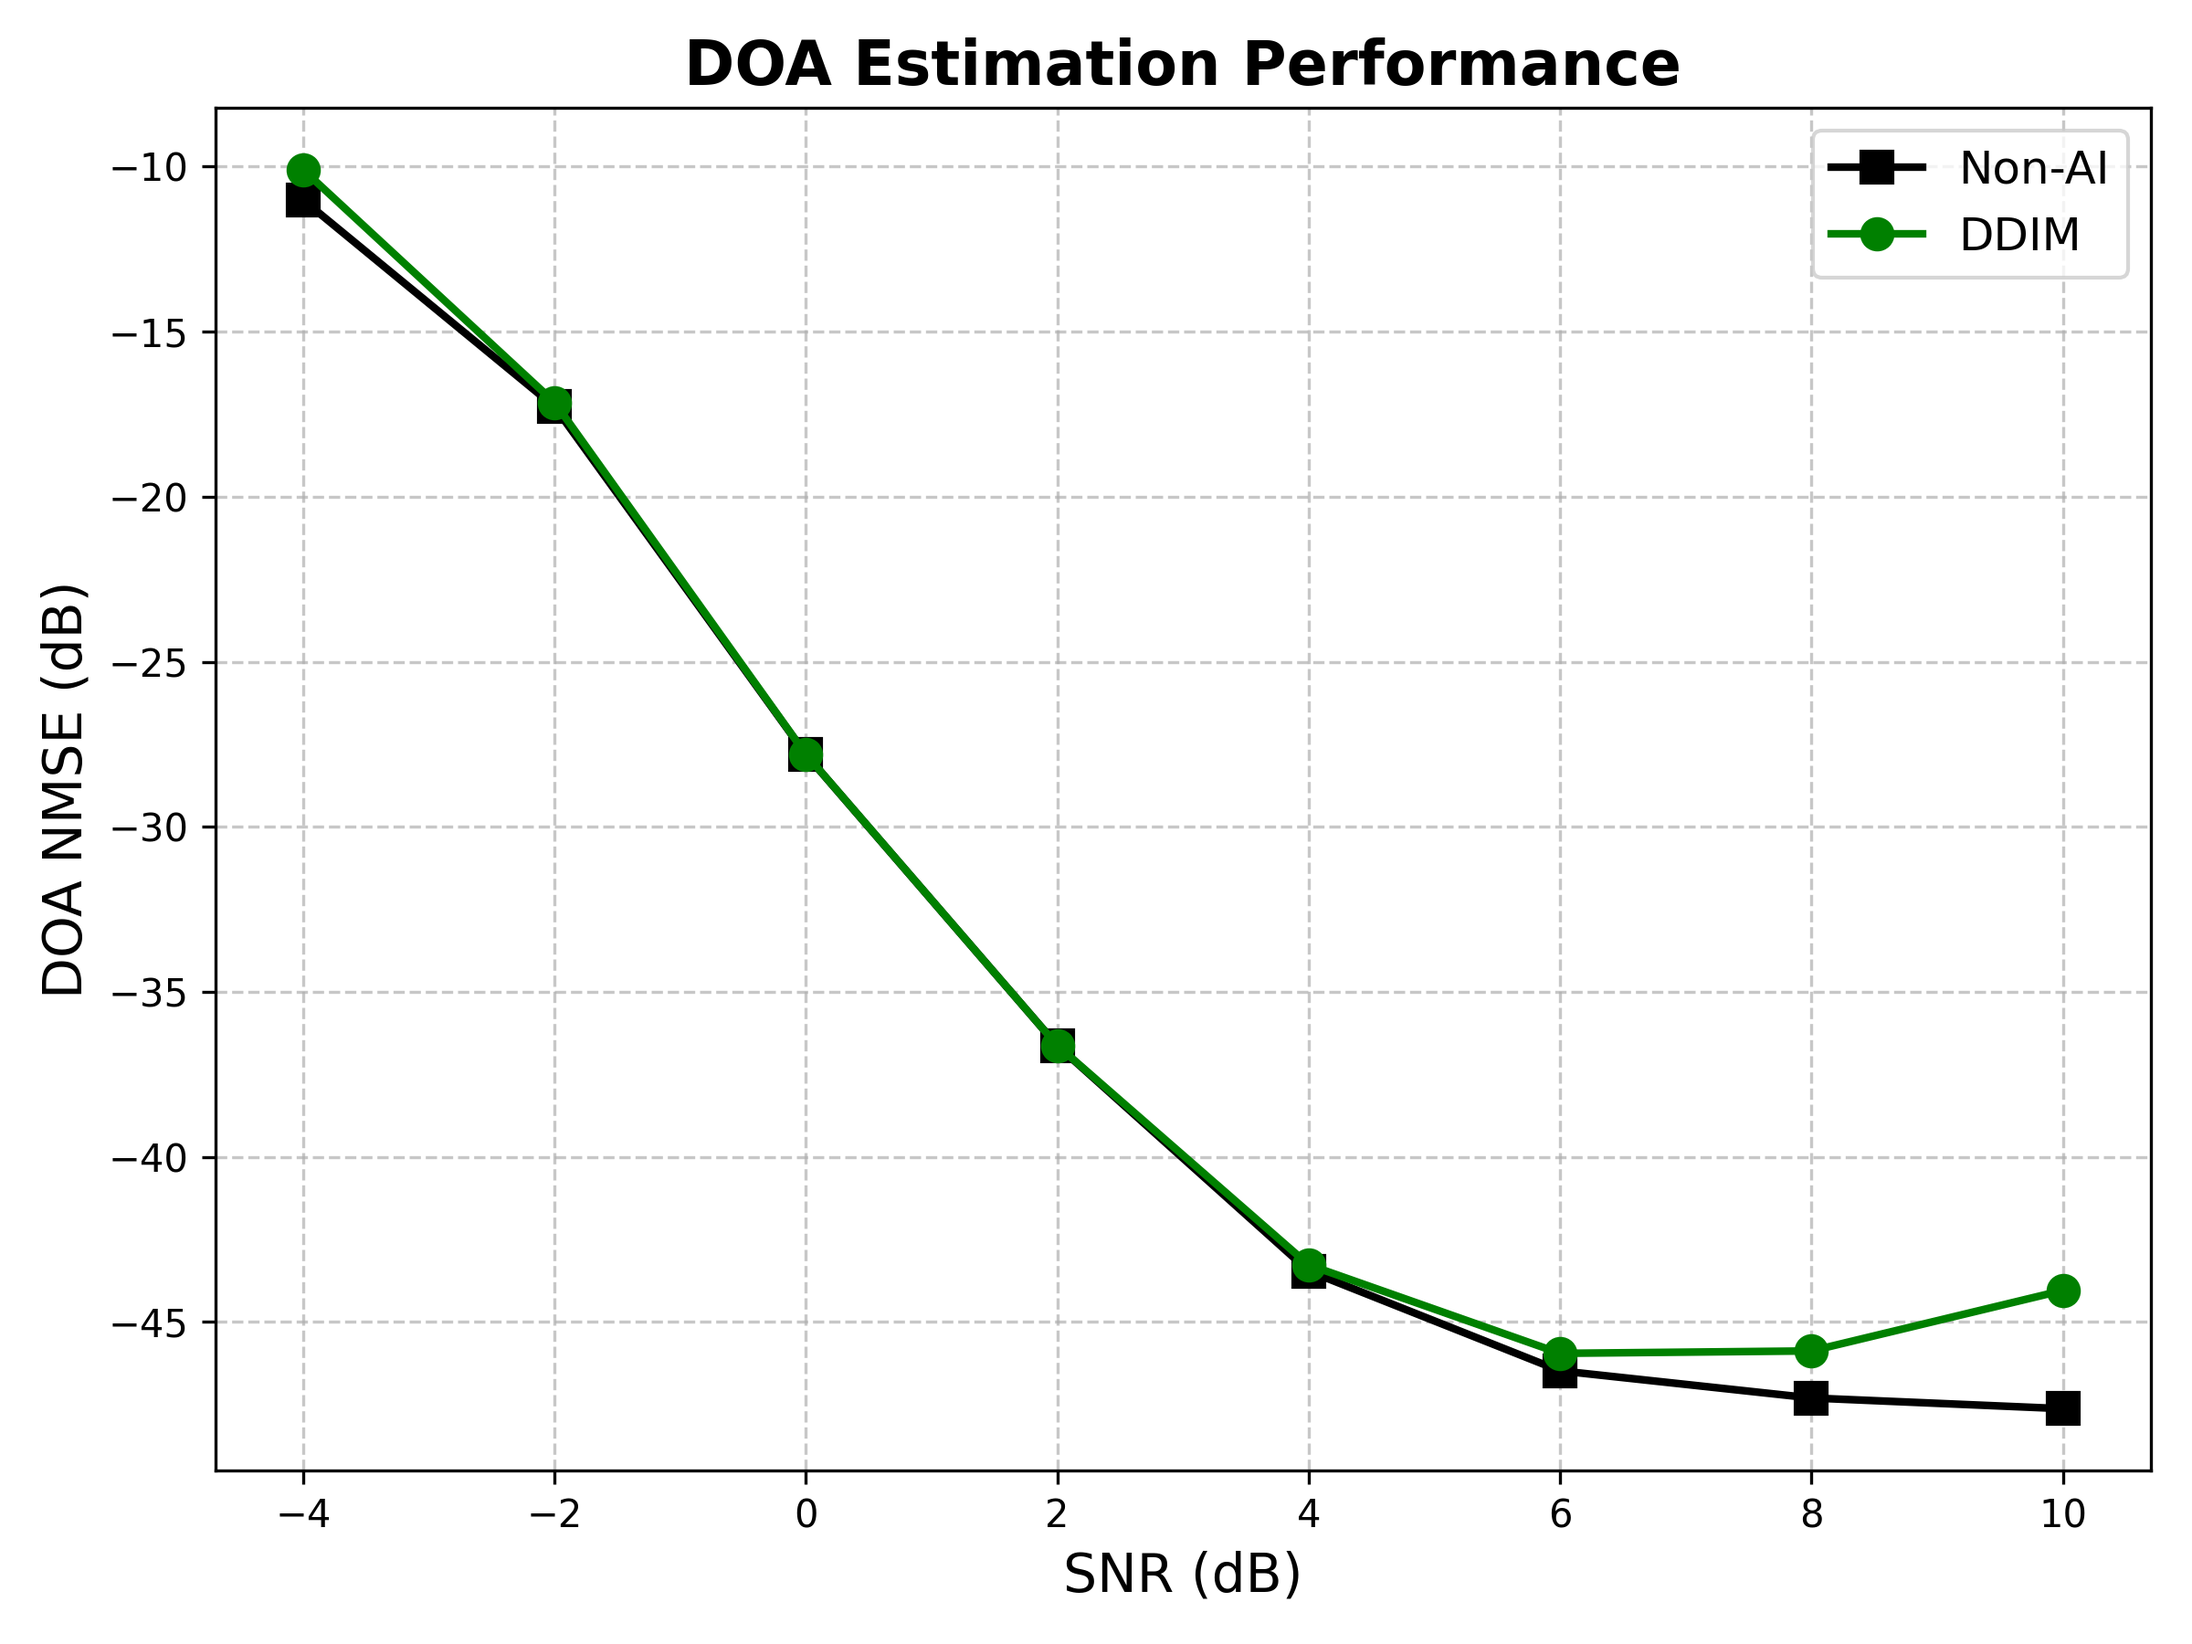
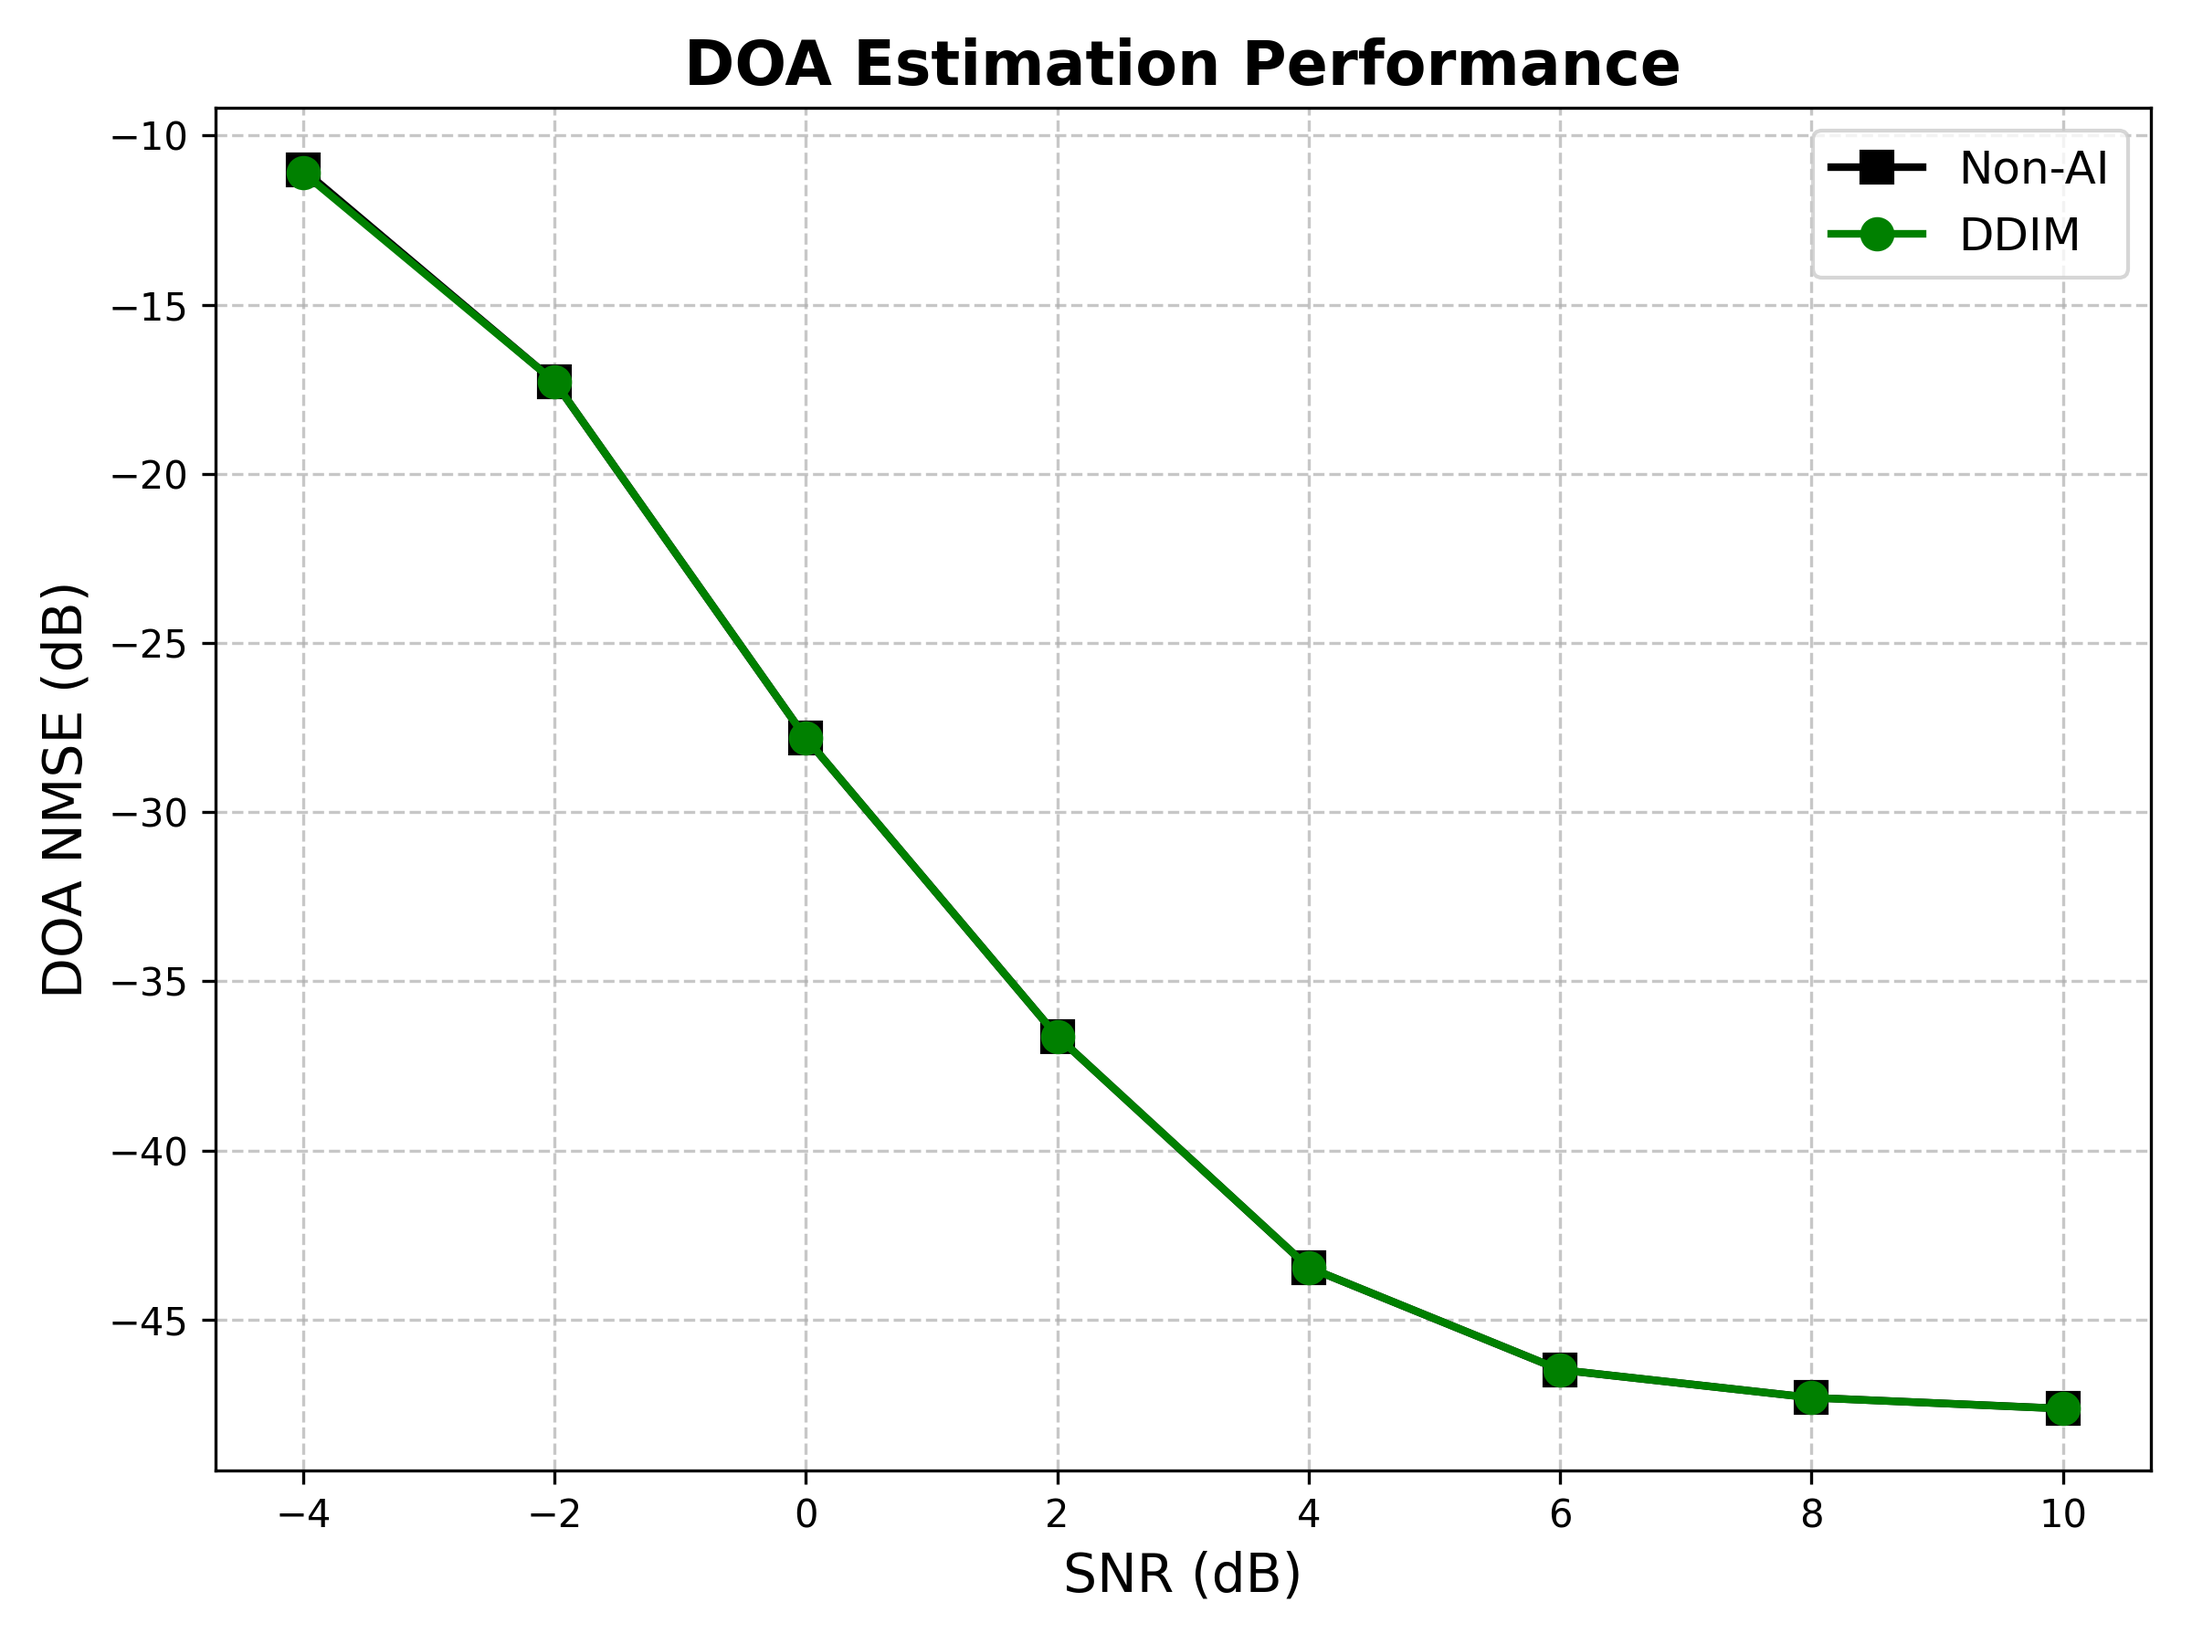
test(compat): benchmark old models and normalize filenames
- Benchmarked old sim/-trained models: performance is weak in high SNR regions.
- Verified that normalizing 't' in MLP (with max(sigma, 1)) matches non-AI results.
- Refactored file naming: removed "_data" suffix from NMSE .mat files for consistency.

diff --git a/sim2/DDIM/test_results/NMSE_plot.py b/sim2/DDIM/test_results/NMSE_plot.py
@@ -122,9 +122,9 @@ def plot_and_save_metric(metric_type, title, ylabel, save_name_base, script_dir)
     print(f"[Success] Saved plot image to: test_results/{save_name_base}.png")
 
     # save .mat data
-    mat_path = os.path.join(script_dir, f"{save_name_base}_data.mat")
+    mat_path = os.path.join(script_dir, f"{save_name_base}.mat")
     sio.savemat(mat_path, plot_data_export)
-    print(f"[Success] Saved plot data to : test_results/{save_name_base}_data.mat")
+    print(f"[Success] Saved plot data to : test_results/{save_name_base}.mat")
     plt.close()
 
 # =============================

diff --git a/sim2/DDIM/diffusion/ddim_sampler_parallel.py b/sim2/DDIM/diffusion/ddim_sampler_parallel.py
@@ -38,7 +38,7 @@ def ddim_epsnet_guided_sampler_batch(y_obs_complex, eps_net, snr,
             x0_hat = (x_t - sqrt_1m_a_cur * eps_pred) / (sqrt_a_cur + 1e-12)
 
             # guidance in x0 domain using observed y
-            grad_x0 = (y_real - x0_hat) / max(sigma_y2 + 1e-8, 0.1)
+            grad_x0 = (y_real - x0_hat) / max(sigma_y2 + 1e-8, 1)
             x0_hat_guided = x0_hat + guidance_lambda * grad_x0
 
             # compute eps_guided

diff --git a/sim2/DDIM/models/epsnet_mlp.py b/sim2/DDIM/models/epsnet_mlp.py
@@ -18,6 +18,7 @@ class EpsNetMLP(nn.Module):
             t_in = (t_cont.float().unsqueeze(-1) / 1.0)
         else:
             t_in = (t_cont.float().unsqueeze(-1))
+        t_in = t_in / 1000.0  # normalize time input
         te = self.time_emb(t_in)
         inp = torch.cat([x, te], dim=-1)
         return self.net(inp)

diff --git a/sim2/DDIM/main.py b/sim2/DDIM/main.py
@@ -41,7 +41,7 @@ BETA_MIN=1e-4
 BETA_MAX=0.02
 T_DIFFUSION=1000.0
 NUM_SAMPLING_STEPS=50
-GUIDANCE_LAMBDA=0.4
+GUIDANCE_LAMBDA=1
 
 # testing settings
 MODEL_WEIGHT_FILE_NAME = f"DDIM_ep{NUM_EPOCHS}_lr{LR:.0e}_t{int(T_DIFFUSION)}_bmax{BETA_MAX:.0e}.pth"
